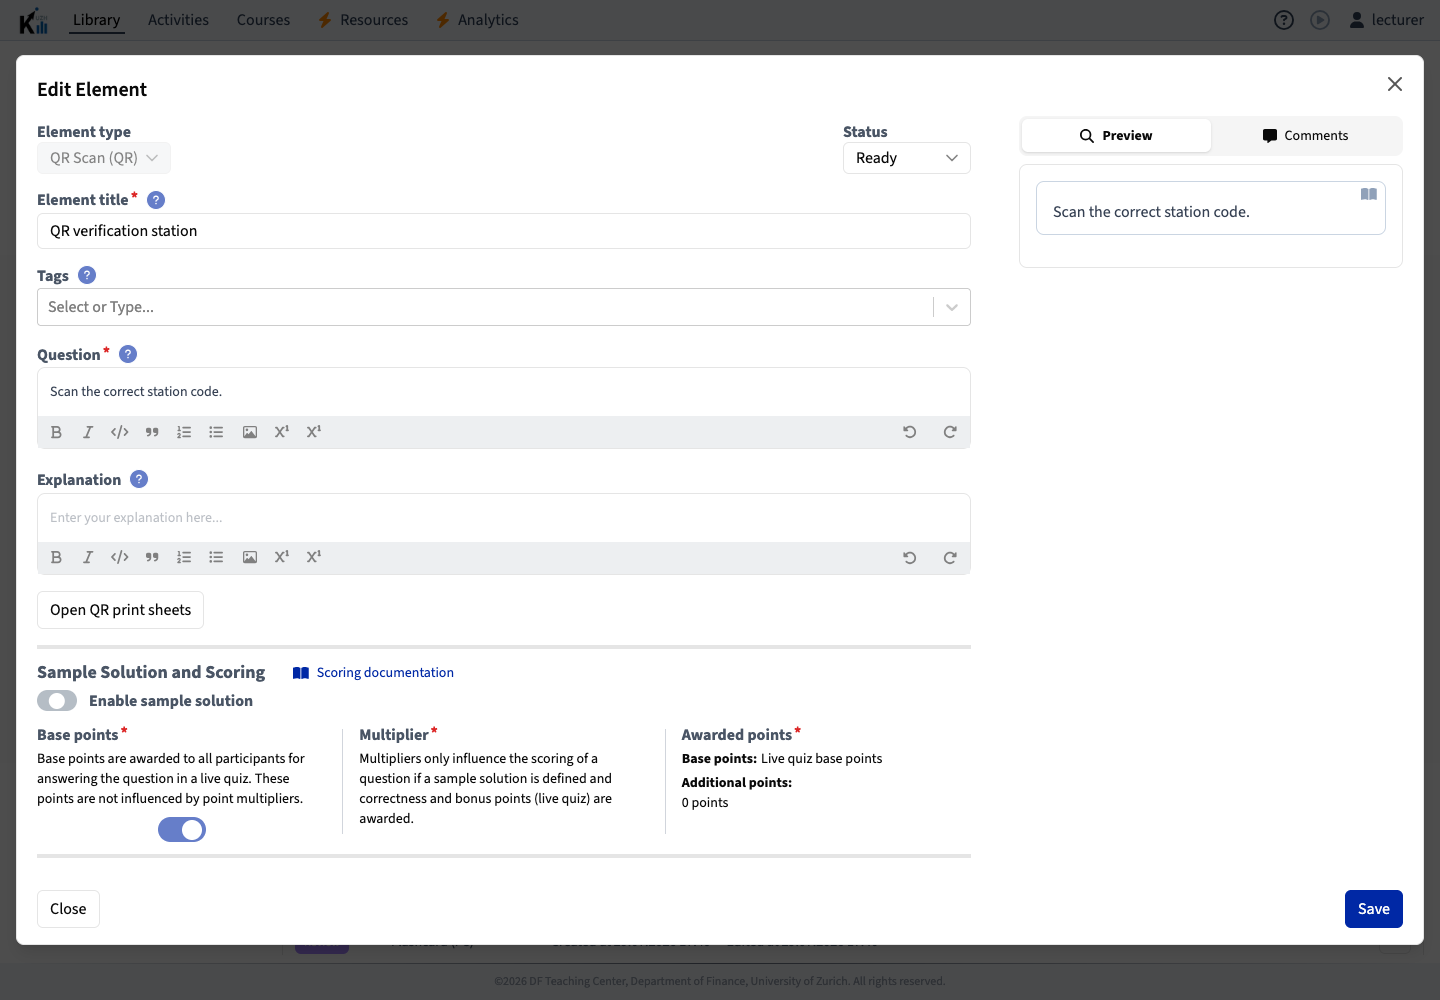
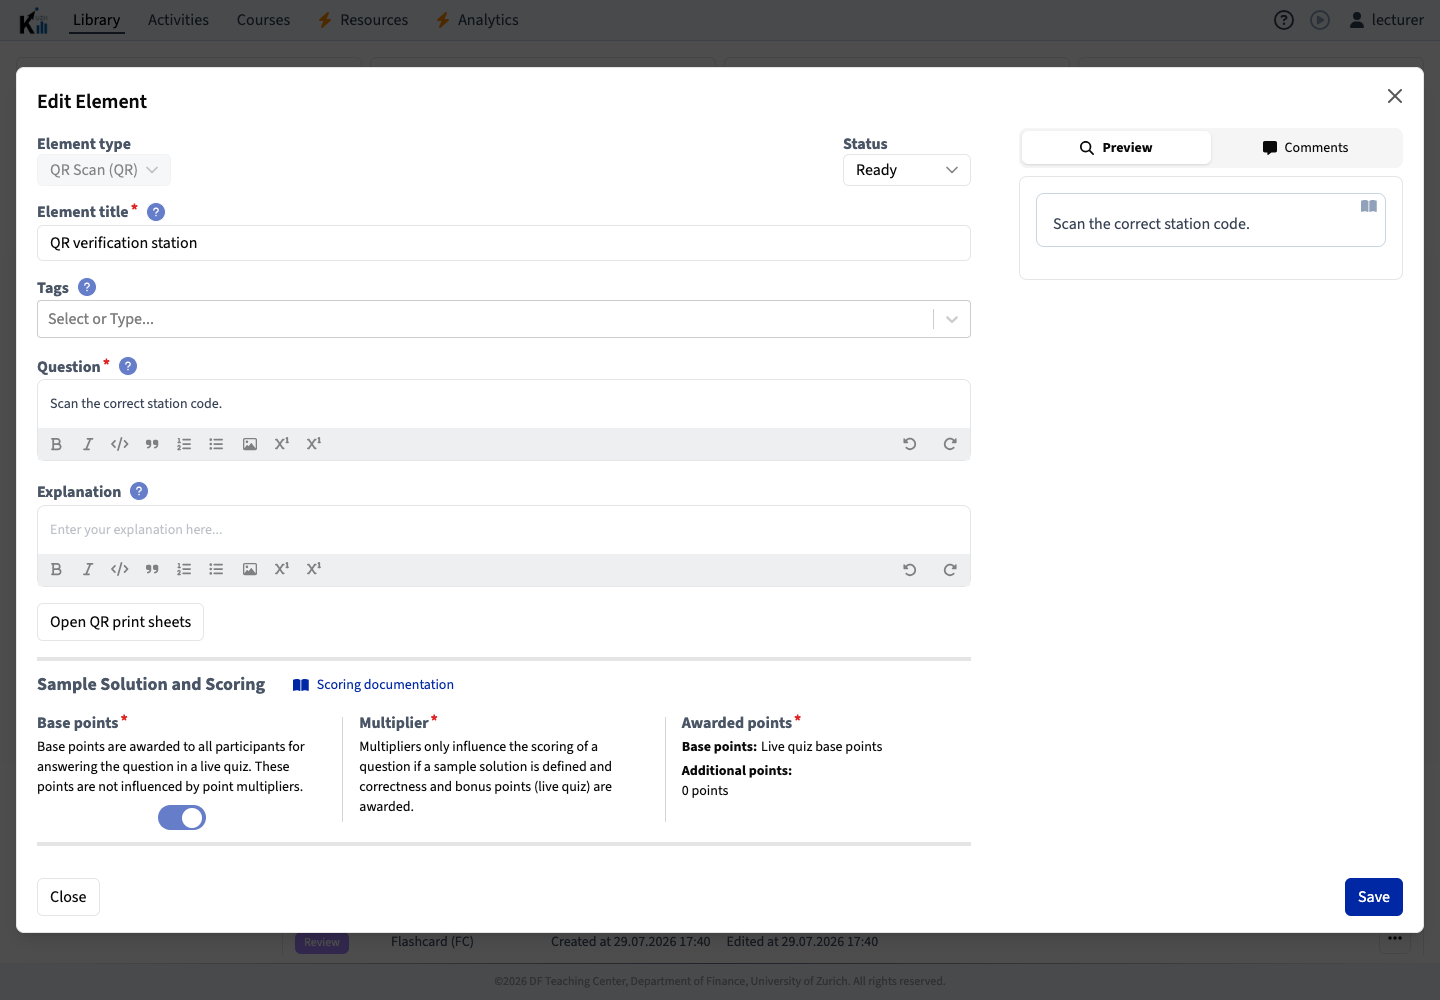
fix(elements): hide unsupported QR sample solution

diff --git a/packages/shared-components/src/constants.ts b/packages/shared-components/src/constants.ts
@@ -50,7 +50,6 @@ export const QUESTION_GROUPS: Record<string, ElementType[]> = {
     ElementType.Numerical,
     ElementType.Selection,
     ElementType.CaseStudy,
-    ElementType.QrScan,
   ],
   WITH_PERCENTAGES: [
     ElementType.Sc,

diff --git a/project/2026-07-29-pr-5143-escape-room-stacked-delivery-plan.md b/project/2026-07-29-pr-5143-escape-room-stacked-delivery-plan.md
@@ -155,7 +155,7 @@ When blocked by environment or authentication, complete every independent local 
 - [x] Create `trees/escape-room-stack`.
 - [x] Initialize `gh stack` with `codex/escape-room-qr` rooted at `v3`.
 - [x] Commit and independently review this plan; revision findings incorporated.
-- [ ] Extract and verify Layer 1.
+- [x] Extract and verify Layer 1.
 - [ ] Add, extract, and verify Layer 2.
 - [ ] Add, extract, and verify Layer 3.
 - [ ] Add, extract, and verify Layer 4.
@@ -165,3 +165,10 @@ When blocked by environment or authentication, complete every independent local 
 ## Current blocker
 
 - `gh auth status` reports that the active `rschlaefli` token is invalid. Local stack work can continue; draft publication requires re-authentication before `gh stack submit --auto`.
+
+## Layer 1 evidence
+
+- **Primary implementation commits:** `4ce964b08`, `01b7693a4`, `a270c49b5`, `37eacfb31`; the final review correction is committed with this progress update.
+- **Verification:** affected package checks, 13 focused GraphQL contract and placement tests, full `check:all`, full production build, Prisma 7 empty-schema replay and clean diff, analytics schema parity, and desktop/mobile browser evidence all passed.
+- **Independent review:** the security/correctness review found one minor no-op QR sample-solution control. QR Scan was removed from that UI capability group and the owner edit flow was rechecked semantically and visually. The simplification review found no code changes that reduced complexity without weakening the contracts.
+- **Known unrelated validation debt:** the engineering-wiki validator still reports the pre-existing missing `type` field in `docs/solutions/best-practice/repeat-production-seeds-use-prior-state.md`; Layer 1 documentation itself passes repository formatting and type checks.

diff --git a/project/2026-07-29-escape-room-qr-verification/README.md b/project/2026-07-29-escape-room-qr-verification/README.md
@@ -14,7 +14,7 @@ isolated development database. No production or personal data was used.
 | File | Verified state |
 | --- | --- |
 | `01-qr-authoring-en-desktop.png` | QR Scan can be selected and authored in the English Manage UI at 1440×1000. |
-| `02-qr-edit-owner-print-en-desktop.png` | The exact owner sees the print-sheet launcher while editing the QR element. |
+| `02-qr-edit-owner-print-en-desktop.png` | The exact owner sees the print-sheet launcher and scoring controls, without the unsupported sample-solution toggle. |
 | `03-qr-print-en-desktop.png` | The English print view renders the correct sheet plus three shuffled decoys. |
 | `04-qr-print-de-mobile.png` | The German print view renders at 390×844 with localized controls and stacked cards. |
 
